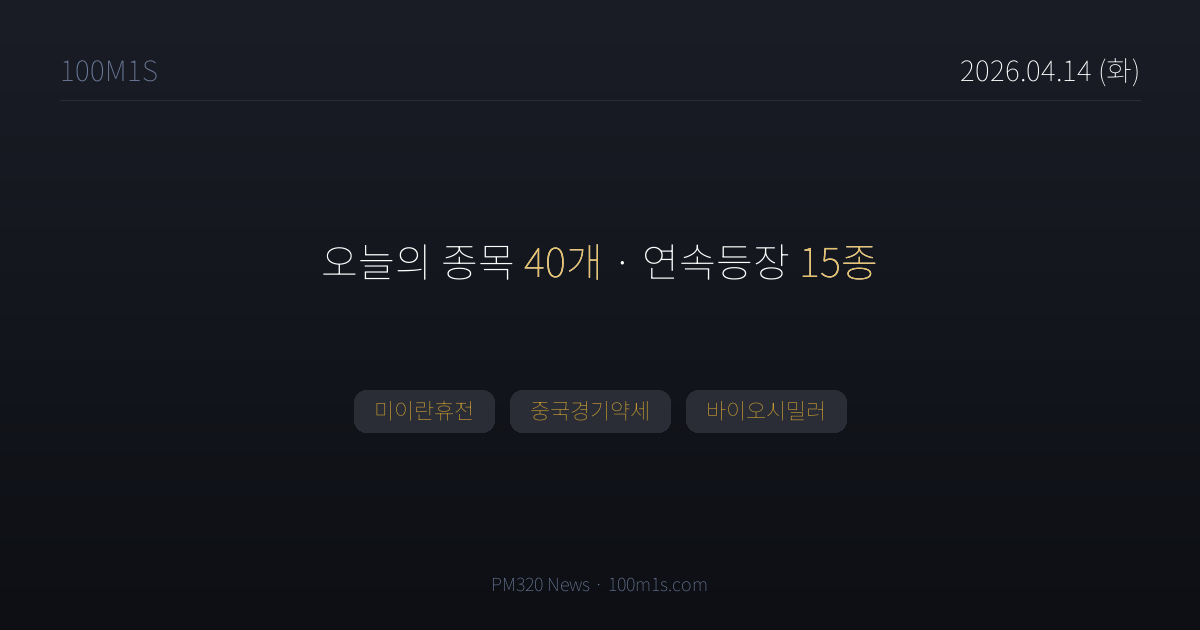
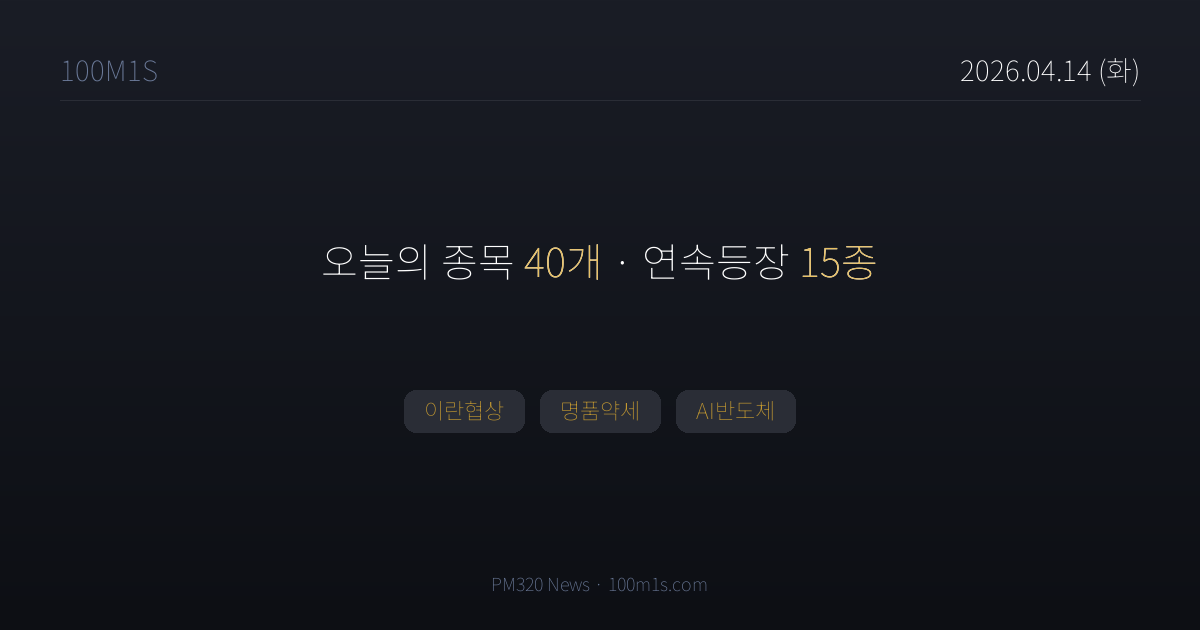
chore(news): 2026-04-14T16:44 pipeline

Changed region(s): [[0.2775, 0.6032, 0.7092, 0.6937]]

diff --git a/news/2026-04-14.html b/news/2026-04-14.html
@@ -4,7 +4,7 @@
 <meta charset="UTF-8">
 <title>4월 14일 (화) 뉴스 — 100M1S</title>
 <meta property="og:title" content="4월 14일 (화) · 종목 40개">
-<meta property="og:description" content="미이란휴전, 중국경기약세, 바이오시밀러">
+<meta property="og:description" content="이란협상, 명품약세, AI반도체">
 <meta property="og:image" content="https://100m1s.com/og/2026-04-14.png">
 <meta property="og:image:width" content="1200">
 <meta property="og:image:height" content="630">
